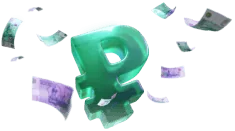
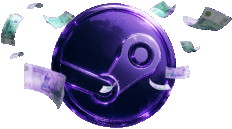
feat(checkout): swap promo money illustration, float it uncut
- money.webp: user art, opaque content + transparent surround
- promo-money: shift down (bottom -10) + scale(0.8) about centre
- html/body fill window + POPUP_H 312->322 so the overhang isn't
  clipped by body's content height

diff --git a/packages/booster-checkout/popup-svelte/App.svelte b/packages/booster-checkout/popup-svelte/App.svelte
@@ -456,16 +456,18 @@
   .promo-btn:hover { background: var(--booster-brand-green-hover); }
   .promo-btn:active { background: var(--booster-brand-green-active); }
   .promo-btn :global(svg) { display: block; width: 12px; height: 12px; flex-shrink: 0; }
-  /* Centered decoration. Its bottom overhangs the block's bottom edge by a
-   * few px (into the transparent strip below the block — the extra window
-   * height in POPUP_H makes room), and its top rises across the gap onto the
-   * panel. Below title/button (z1 < z2), above panel + block bg.
-   * Height/offset tuned live against the mockup. */
+  /* Centered decoration. Its bottom overhangs the block's bottom edge into the
+   * transparent strip below the block and floats there (full-height body +
+   * extra POPUP_H make room so it isn't clipped at the window edge); its top
+   * rises across the gap onto the panel. Below title/button (z1 < z2), above
+   * panel + block bg. Height/offset tuned live against the mockup. */
   .promo-money {
     position: absolute;
     left: 50%;
-    bottom: -5px;
-    transform: translateX(-50%);
+    bottom: -10px;
+    /* scale(0.8): 20% smaller, about the element centre (default origin) so
+     * the illustration's centre stays pinned while it shrinks. */
+    transform: translateX(-50%) scale(0.8);
     height: 68px;
     z-index: 1;
     pointer-events: none;

diff --git a/packages/booster-checkout/src/main/install.ts b/packages/booster-checkout/src/main/install.ts
@@ -40,13 +40,14 @@ const WINDOW_TERMS   = 'sb_terms';
 const WINDOW_PRIVACY = 'sb_privacy';
 
 const POPUP_W = 378;
-// 248 popup panel + 8 transparent gap + 48 promo block + 8 transparent
-// overhang strip = 312. The extra height below the panel is empty/transparent
-// window space where the detached «Каталог» promo floats and the money
-// illustration overhangs the block's bottom edge (see App.svelte / reset.css).
-// The panel itself stays 248 and its position (anchored at the header button)
-// is unchanged.
-const POPUP_H = 312;
+// 248 popup panel + 8 transparent gap + 48 promo block = 304 block bottom;
+// the money illustration overhangs 10 px below that (to 314), then an 8 px
+// transparent air strip lets it float uncut = 322. The extra height below the
+// panel is empty/transparent window space where the detached «Каталог» promo
+// floats and the money illustration hangs (see App.svelte / reset.css). The
+// panel itself stays 248 and its position (anchored at the header button) is
+// unchanged.
+const POPUP_H = 322;
 
 /**
  * Main-shell plugin install entry. Invoked by the plugin host when this

diff --git a/packages/booster-checkout/popup-svelte/styles/reset.css b/packages/booster-checkout/popup-svelte/styles/reset.css
@@ -10,6 +10,11 @@ html, body {
   background: transparent;
   font-family: var(--booster-font-stack);
   color: var(--booster-text-primary);
+  /* Fill the whole popup window so overflow:hidden clips at the window edge,
+   * not at the in-flow content height (panel+gap+promo). Without this, body
+   * shrinks to the block and cuts off the money illustration that overhangs
+   * below it into the transparent floating strip. */
+  height: 100%;
   overflow: hidden;
   user-select: none;
   -webkit-user-select: none;
